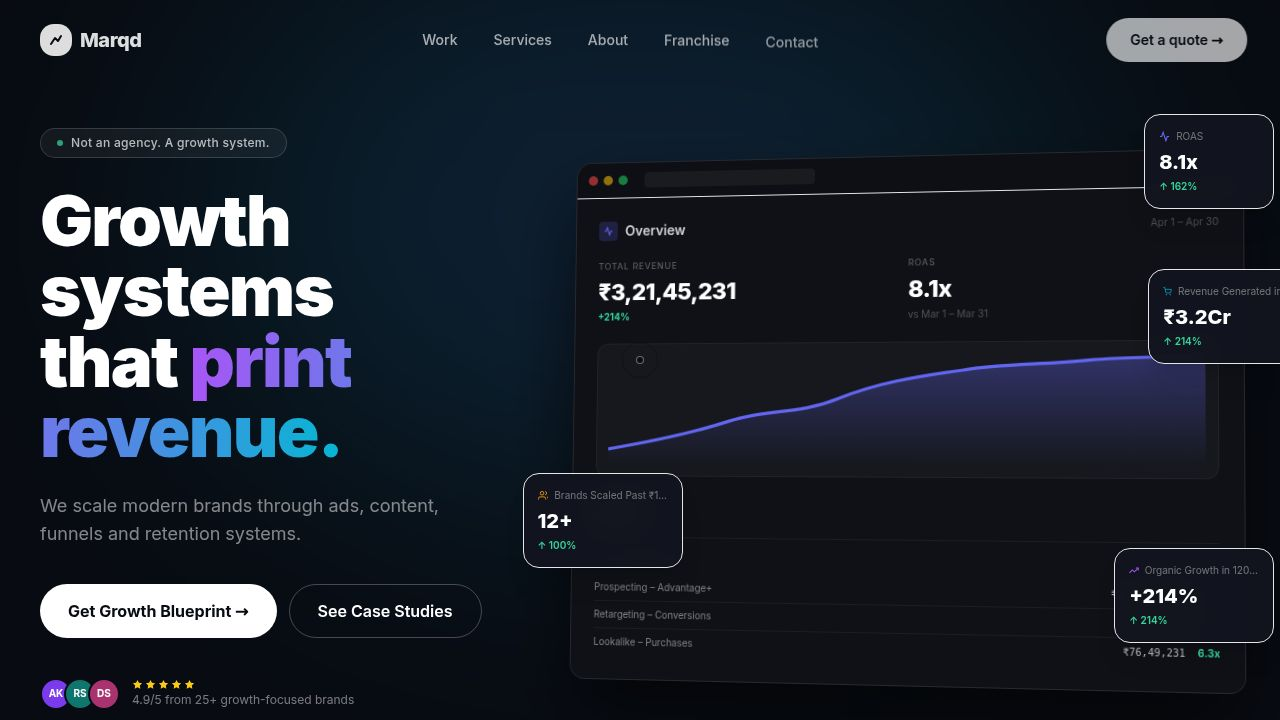
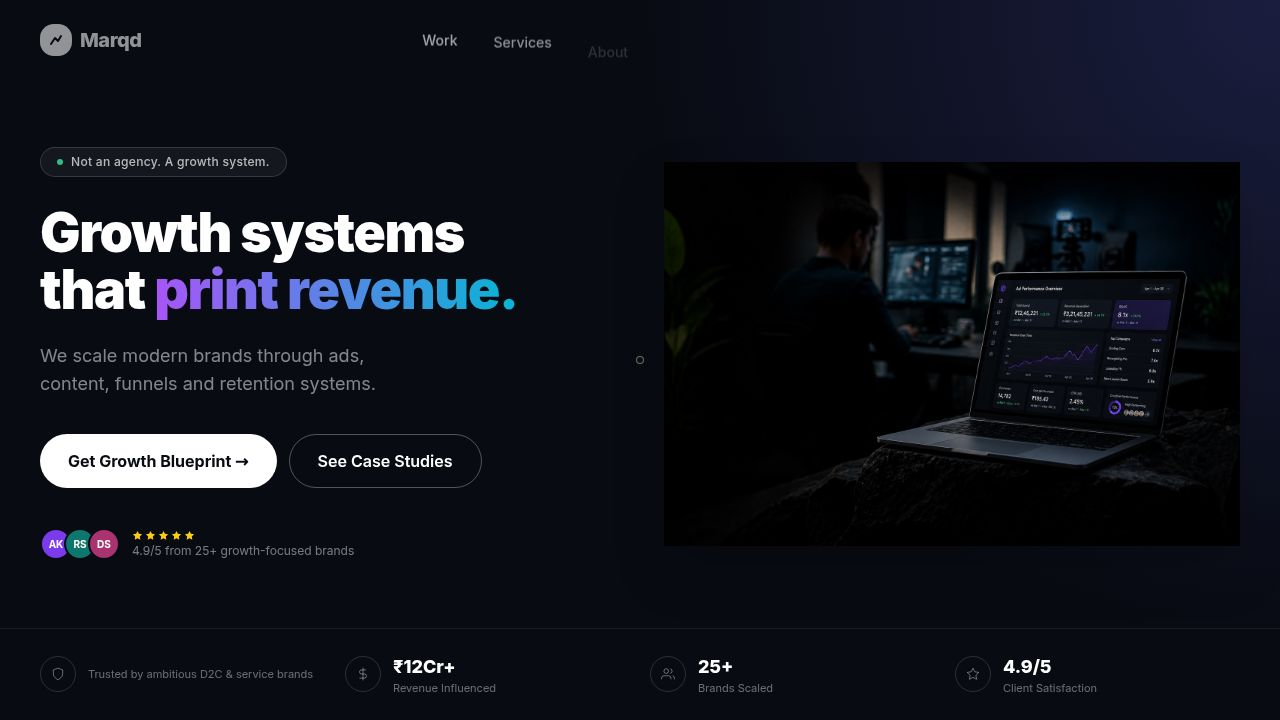
Update hero section to showcase a new image and simplify the layout
Replaces CSS laptop mockup with an image, removes cards, and adjusts background styling in the Hero component.

Replit-Commit-Author: Agent
Replit-Commit-Session-Id: 18c913d8-e8b1-4654-9fca-4024ee89c019
Replit-Commit-Checkpoint-Type: full_checkpoint
Replit-Commit-Event-Id: 2d590a1e-7359-46e9-8cef-2e03b158bfc9
Replit-Commit-Screenshot-Url: https://storage.googleapis.com/screenshot-production-us-central1/e7a86f1f-4ca9-4f5b-b352-ac7590321866/18c913d8-e8b1-4654-9fca-4024ee89c019/KbxRUoy
Replit-Helium-Checkpoint-Created: true

diff --git a/artifacts/growth-system/src/components/sections/Hero.tsx b/artifacts/growth-system/src/components/sections/Hero.tsx
@@ -2,20 +2,17 @@ import { smoothScrollTo } from "@/lib/smooth-scroll";
 
 export function Hero() {
   return (
-    <section className="relative overflow-hidden min-h-screen flex flex-col bg-[#050709]">
-      {/* ── Background photo ─────────────────────────────────────────────── */}
+    <section className="relative overflow-hidden min-h-screen flex flex-col bg-[#080B12]">
+      {/* subtle radial glow */}
       <div
-        className="absolute inset-0 bg-cover bg-center bg-no-repeat"
-        style={{ backgroundImage: "url('/hero-bg.jpg')" }}
+        className="absolute top-0 right-0 w-[700px] h-[700px] opacity-20 pointer-events-none"
+        style={{ background: "radial-gradient(ellipse at top right, #6366F1 0%, transparent 65%)" }}
       />
-      <div className="absolute inset-0 bg-gradient-to-r from-[#050709]/95 via-[#050709]/65 to-[#050709]/30" />
-      <div className="absolute inset-x-0 top-0 h-32 bg-gradient-to-b from-[#050709]/70 to-transparent" />
-      <div className="absolute inset-x-0 bottom-0 h-56 bg-gradient-to-t from-[#050709] to-transparent" />
 
-      {/* ── Main content ─────────────────────────────────────────────────── */}
-      <div className="container-wide flex-1 grid lg:grid-cols-2 gap-6 xl:gap-8 items-center pt-28 md:pt-32 pb-16 relative z-10">
+      {/* ── Main grid ────────────────────────────────────────────────────── */}
+      <div className="container-wide flex-1 grid lg:grid-cols-2 gap-8 xl:gap-12 items-center pt-28 md:pt-32 pb-12 relative z-10">
 
-        {/* ── Left column — text ── */}
+        {/* Left — text */}
         <div>
           <div className="inline-flex items-center gap-2 rounded-full border border-white/15 bg-white/5 px-4 py-1.5 mb-7">
             <span className="w-1.5 h-1.5 rounded-full bg-emerald-400 animate-pulse" />
@@ -47,7 +44,7 @@ export function Hero() {
           <div className="flex flex-wrap gap-3 mb-10">
             <button
               onClick={() => smoothScrollTo("#configurator")}
-              className="inline-flex items-center gap-2 rounded-full bg-white text-[#050709] font-bold px-7 py-3.5 text-sm md:text-base hover:bg-white/90 transition-colors"
+              className="inline-flex items-center gap-2 rounded-full bg-white text-[#080B12] font-bold px-7 py-3.5 text-sm md:text-base hover:bg-white/90 transition-colors"
             >
               Get Growth Blueprint →
             </button>
@@ -64,7 +61,7 @@ export function Hero() {
               {(["#7C3AED", "#0F766E", "#A8336E"] as const).map((c, i) => (
                 <div
                   key={i}
-                  className="w-8 h-8 rounded-full border-2 border-[#050709] grid place-items-center text-[10px] font-bold text-white"
+                  className="w-8 h-8 rounded-full border-2 border-[#080B12] grid place-items-center text-[10px] font-bold text-white"
                   style={{ background: c }}
                 >
                   {["AK", "RS", "DS"][i]}
@@ -84,14 +81,24 @@ export function Hero() {
           </div>
         </div>
 
-        {/* ── Right column — laptop mockup + cards ── */}
-        <div className="relative hidden lg:flex items-center justify-center" style={{ minHeight: "480px" }}>
-          <LaptopMockup />
+        {/* Right — laptop image with edge fades so it dissolves into the dark bg */}
+        <div className="relative flex items-center justify-center lg:justify-end overflow-hidden">
+          <img
+            src="/hero-laptop.png"
+            alt="Marqd dashboard on laptop"
+            className="w-full max-w-[640px] object-contain select-none"
+            draggable={false}
+          />
+          {/* Edge-fade overlays to blend into dark background */}
+          <div className="absolute inset-y-0 left-0 w-1/4 bg-gradient-to-r from-[#080B12] to-transparent pointer-events-none" />
+          <div className="absolute inset-x-0 top-0 h-1/4 bg-gradient-to-b from-[#080B12] to-transparent pointer-events-none" />
+          <div className="absolute inset-x-0 bottom-0 h-1/3 bg-gradient-to-t from-[#080B12] to-transparent pointer-events-none" />
+          <div className="absolute inset-y-0 right-0 w-8 bg-gradient-to-l from-[#080B12] to-transparent pointer-events-none" />
         </div>
       </div>
 
-      {/* ── Stats bar — no border line ───────────────────────────────────── */}
-      <div className="relative z-10">
+      {/* ── Stats bar ────────────────────────────────────────────────────── */}
+      <div className="relative z-10 border-t border-white/[0.07]">
         <div className="container-wide py-6 grid grid-cols-2 md:grid-cols-4 gap-5">
           {STATS.map((s) => (
             <div key={s.label} className="flex items-center gap-3">
@@ -109,166 +116,6 @@ export function Hero() {
         </div>
       </div>
     </section>
-  );
-}
-
-/* ─── Laptop mockup with dashboard on screen ──────────────────────────────── */
-function LaptopMockup() {
-  return (
-    <div className="relative w-full" style={{ perspective: "1400px" }}>
-      {/* The entire laptop + screen, 3-D tilted */}
-      <div
-        className="relative mx-auto"
-        style={{
-          transform: "rotateY(-14deg) rotateX(4deg)",
-          transformOrigin: "65% center",
-          maxWidth: "520px",
-        }}
-      >
-        {/* ── Screen assembly ── */}
-        <div
-          className="rounded-t-2xl border border-white/15 shadow-[0_0_0_1px_rgba(255,255,255,0.05),0_32px_80px_rgba(0,0,0,0.85)]"
-          style={{ background: "#1A1B1F" }}
-        >
-          {/* Bezel top — camera dot */}
-          <div className="flex justify-center py-1.5">
-            <div className="w-1.5 h-1.5 rounded-full bg-white/20" />
-          </div>
-
-          {/* Screen glass */}
-          <div className="mx-2 mb-2 rounded-lg overflow-hidden" style={{ background: "#0B0D14" }}>
-            {/* Chrome bar */}
-            <div className="flex items-center gap-1.5 px-3 py-2 border-b border-white/8" style={{ background: "#0F1018" }}>
-              <div className="w-2 h-2 rounded-full bg-red-500/70" />
-              <div className="w-2 h-2 rounded-full bg-yellow-400/70" />
-              <div className="w-2 h-2 rounded-full bg-green-400/70" />
-              <div className="flex-1 mx-3 rounded-full h-3 max-w-[130px]" style={{ background: "rgba(255,255,255,0.06)" }} />
-            </div>
-
-            {/* Dashboard content */}
-            <div className="p-3.5">
-              {/* Header */}
-              <div className="flex items-center justify-between mb-3">
-                <div className="flex items-center gap-1.5">
-                  <div className="w-4 h-4 rounded bg-indigo-600/30 grid place-items-center">
-                    <svg width="8" height="8" viewBox="0 0 24 24" fill="none" stroke="#818CF8" strokeWidth="2.5">
-                      <polyline points="22 12 18 12 15 21 9 3 6 12 2 12" />
-                    </svg>
-                  </div>
-                  <span className="text-white/75 text-[10px] font-semibold tracking-wide">Ad Performance Overview</span>
-                </div>
-                <span className="text-white/20 text-[8px]">Apr 1 – Apr 30 ↓</span>
-              </div>
-
-              {/* Metric row */}
-              <div className="grid grid-cols-3 gap-2 mb-3">
-                <div className="rounded-lg p-2.5" style={{ background: "rgba(255,255,255,0.035)", border: "1px solid rgba(255,255,255,0.06)" }}>
-                  <div className="text-white/30 text-[7px] uppercase tracking-widest mb-0.5">Total Spend</div>
-                  <div className="text-white font-bold text-[11px] leading-tight">₹12,45,231</div>
-                  <div className="text-emerald-400 text-[7px] font-semibold mt-0.5">+23.5%</div>
-                </div>
-                <div className="col-span-2 rounded-lg p-2.5" style={{ background: "rgba(255,255,255,0.035)", border: "1px solid rgba(255,255,255,0.06)" }}>
-                  <div className="text-white/30 text-[7px] uppercase tracking-widest mb-0.5">Revenue Generated</div>
-                  <div className="text-white font-bold text-[13px] leading-tight">₹3,21,45,231</div>
-                  <div className="text-emerald-400 text-[7px] font-semibold mt-0.5">+24.1%</div>
-                </div>
-              </div>
-
-              {/* ROAS + Chart row */}
-              <div className="grid grid-cols-3 gap-2 mb-3">
-                <div className="rounded-lg p-2.5" style={{ background: "rgba(99,102,241,0.18)", border: "1px solid rgba(99,102,241,0.3)" }}>
-                  <div className="text-indigo-300/60 text-[7px] uppercase tracking-widest mb-0.5">ROAS</div>
-                  <div className="text-white font-extrabold text-lg leading-tight">8.1x</div>
-                  <div className="text-indigo-300/60 text-[7px] mt-0.5">+16.2%</div>
-                </div>
-                <div className="col-span-2 rounded-lg overflow-hidden p-2.5" style={{ background: "rgba(255,255,255,0.025)", border: "1px solid rgba(255,255,255,0.05)" }}>
-                  <div className="text-white/25 text-[7px] mb-1.5">Revenue Over Time</div>
-                  <svg viewBox="0 0 160 36" className="w-full" preserveAspectRatio="none">
-                    <defs>
-                      <linearGradient id="lg1" x1="0" y1="0" x2="0" y2="1">
-                        <stop offset="0%" stopColor="#6366F1" stopOpacity="0.45" />
-                        <stop offset="100%" stopColor="#6366F1" stopOpacity="0" />
-                      </linearGradient>
-                    </defs>
-                    <path d="M0,32 C10,28 20,25 30,22 C42,17 52,20 63,14 C74,8 84,6 96,4 C108,2 118,3 132,2 C144,1 152,1 160,0"
-                      fill="none" stroke="#6366F1" strokeWidth="1.5" />
-                    <path d="M0,32 C10,28 20,25 30,22 C42,17 52,20 63,14 C74,8 84,6 96,4 C108,2 118,3 132,2 C144,1 152,1 160,0 L160,36 L0,36Z"
-                      fill="url(#lg1)" />
-                  </svg>
-                </div>
-              </div>
-
-              {/* Bottom row */}
-              <div className="grid grid-cols-3 gap-2">
-                <div className="rounded-lg p-2.5" style={{ background: "rgba(255,255,255,0.03)", border: "1px solid rgba(255,255,255,0.05)" }}>
-                  <div className="text-white/30 text-[7px] uppercase tracking-widest mb-0.5">Purchases</div>
-                  <div className="text-white font-bold text-[11px]">14,792</div>
-                </div>
-                <div className="rounded-lg p-2.5" style={{ background: "rgba(255,255,255,0.03)", border: "1px solid rgba(255,255,255,0.05)" }}>
-                  <div className="text-white/30 text-[7px] uppercase tracking-widest mb-0.5">Cost/Purchase</div>
-                  <div className="text-white font-bold text-[11px]">₹185.42</div>
-                </div>
-                <div className="rounded-lg p-2.5" style={{ background: "rgba(255,255,255,0.03)", border: "1px solid rgba(255,255,255,0.05)" }}>
-                  <div className="text-white/30 text-[7px] uppercase tracking-widest mb-0.5">CTR</div>
-                  <div className="text-white font-bold text-[11px]">2.45%</div>
-                </div>
-              </div>
-
-              {/* Campaigns */}
-              <div className="mt-3 rounded-lg p-2.5" style={{ background: "rgba(255,255,255,0.025)", border: "1px solid rgba(255,255,255,0.05)" }}>
-                <div className="flex items-center justify-between mb-1.5">
-                  <span className="text-white/30 text-[7px] uppercase tracking-widest">Top Campaigns</span>
-                  <span className="text-indigo-400/70 text-[7px]">View all</span>
-                </div>
-                {[
-                  { name: "Scaling Core",     roas: "8.7x" },
-                  { name: "Retargeting Pro",  roas: "7.6x" },
-                  { name: "Lookalike 1%",     roas: "6.3x" },
-                  { name: "New Launch Boost", roas: "5.9x" },
-                ].map((r) => (
-                  <div key={r.name} className="flex items-center justify-between py-0.5">
-                    <span className="text-white/35 text-[8px]">{r.name}</span>
-                    <span className="text-emerald-400/80 text-[8px] font-bold">{r.roas}</span>
-                  </div>
-                ))}
-              </div>
-            </div>
-          </div>
-        </div>
-
-        {/* ── Laptop base / hinge ── */}
-        <div
-          className="h-2 mx-4 rounded-b-sm"
-          style={{ background: "linear-gradient(to bottom, #28292E, #1C1D21)", boxShadow: "0 4px 16px rgba(0,0,0,0.7)" }}
-        />
-        <div
-          className="h-3 mx-0 rounded-b-xl"
-          style={{ background: "linear-gradient(to bottom, #1C1D21, #141416)", boxShadow: "0 8px 32px rgba(0,0,0,0.8)" }}
-        />
-      </div>
-
-      {/* ── Floating metric cards ── */}
-      <FloatCard
-        style={{ top: "2%", right: "-2%" }}
-        color="#818CF8" icon="roas"
-        metric="8.1x" label="ROAS" delta="↑ 162%"
-      />
-      <FloatCard
-        style={{ top: "36%", right: "-5%" }}
-        color="#06B6D4" icon="cart"
-        metric="₹3.2Cr" label="Revenue in 90 Days" delta="↑ 214%"
-      />
-      <FloatCard
-        style={{ bottom: "12%", right: "-2%" }}
-        color="#A855F7" icon="growth"
-        metric="+214%" label="Organic Growth" delta="vs prev period"
-      />
-      <FloatCard
-        style={{ bottom: "18%", left: "-4%" }}
-        color="#F59E0B" icon="brands"
-        metric="12+" label="Brands Past ₹1Cr" delta="↑ 100%"
-      />
-    </div>
   );
 }
 
@@ -313,64 +160,3 @@ const STATS = [
     label: "Client Satisfaction",
   },
 ];
-
-/* ── Floating card ────────────────────────────────────────────────────────── */
-type IconName = "roas" | "cart" | "growth" | "brands";
-
-function FloatCard({
-  style,
-  color,
-  icon,
-  metric,
-  label,
-  delta,
-}: {
-  style: React.CSSProperties;
-  color: string;
-  icon: IconName;
-  metric: string;
-  label: string;
-  delta: string;
-}) {
-  const icons: Record<IconName, React.ReactNode> = {
-    roas: (
-      <svg width="11" height="11" viewBox="0 0 24 24" fill="none" stroke={color} strokeWidth="2.5">
-        <polyline points="22 12 18 12 15 21 9 3 6 12 2 12" />
-      </svg>
-    ),
-    cart: (
-      <svg width="11" height="11" viewBox="0 0 24 24" fill="none" stroke={color} strokeWidth="2">
-        <circle cx="9" cy="21" r="1" />
-        <circle cx="20" cy="21" r="1" />
-        <path d="M1 1h4l2.68 13.39a2 2 0 001.98 1.61h9.72a2 2 0 001.98-1.61L23 6H6" />
-      </svg>
-    ),
-    growth: (
-      <svg width="11" height="11" viewBox="0 0 24 24" fill="none" stroke={color} strokeWidth="2.5">
-        <polyline points="23 6 13.5 15.5 8.5 10.5 1 18" />
-        <polyline points="17 6 23 6 23 12" />
-      </svg>
-    ),
-    brands: (
-      <svg width="11" height="11" viewBox="0 0 24 24" fill="none" stroke={color} strokeWidth="2">
-        <path d="M17 21v-2a4 4 0 00-4-4H5a4 4 0 00-4 4v2" />
-        <circle cx="9" cy="7" r="4" />
-        <path d="M23 21v-2a4 4 0 00-3-3.87M16 3.13a4 4 0 010 7.75" />
-      </svg>
-    ),
-  };
-
-  return (
-    <div
-      className="absolute rounded-xl border border-white/12 backdrop-blur-md p-3 w-[128px] shadow-[0_8px_32px_rgba(0,0,0,0.5)]"
-      style={{ ...style, background: "rgba(10,12,21,0.88)" }}
-    >
-      <div className="flex items-center gap-1.5 mb-1.5 text-white/35 text-[9px]">
-        {icons[icon]}
-        <span className="leading-tight">{label}</span>
-      </div>
-      <div className="text-white text-xl font-extrabold leading-tight tracking-tight">{metric}</div>
-      <div className="text-emerald-400 text-[9px] font-semibold mt-1">{delta}</div>
-    </div>
-  );
-}
